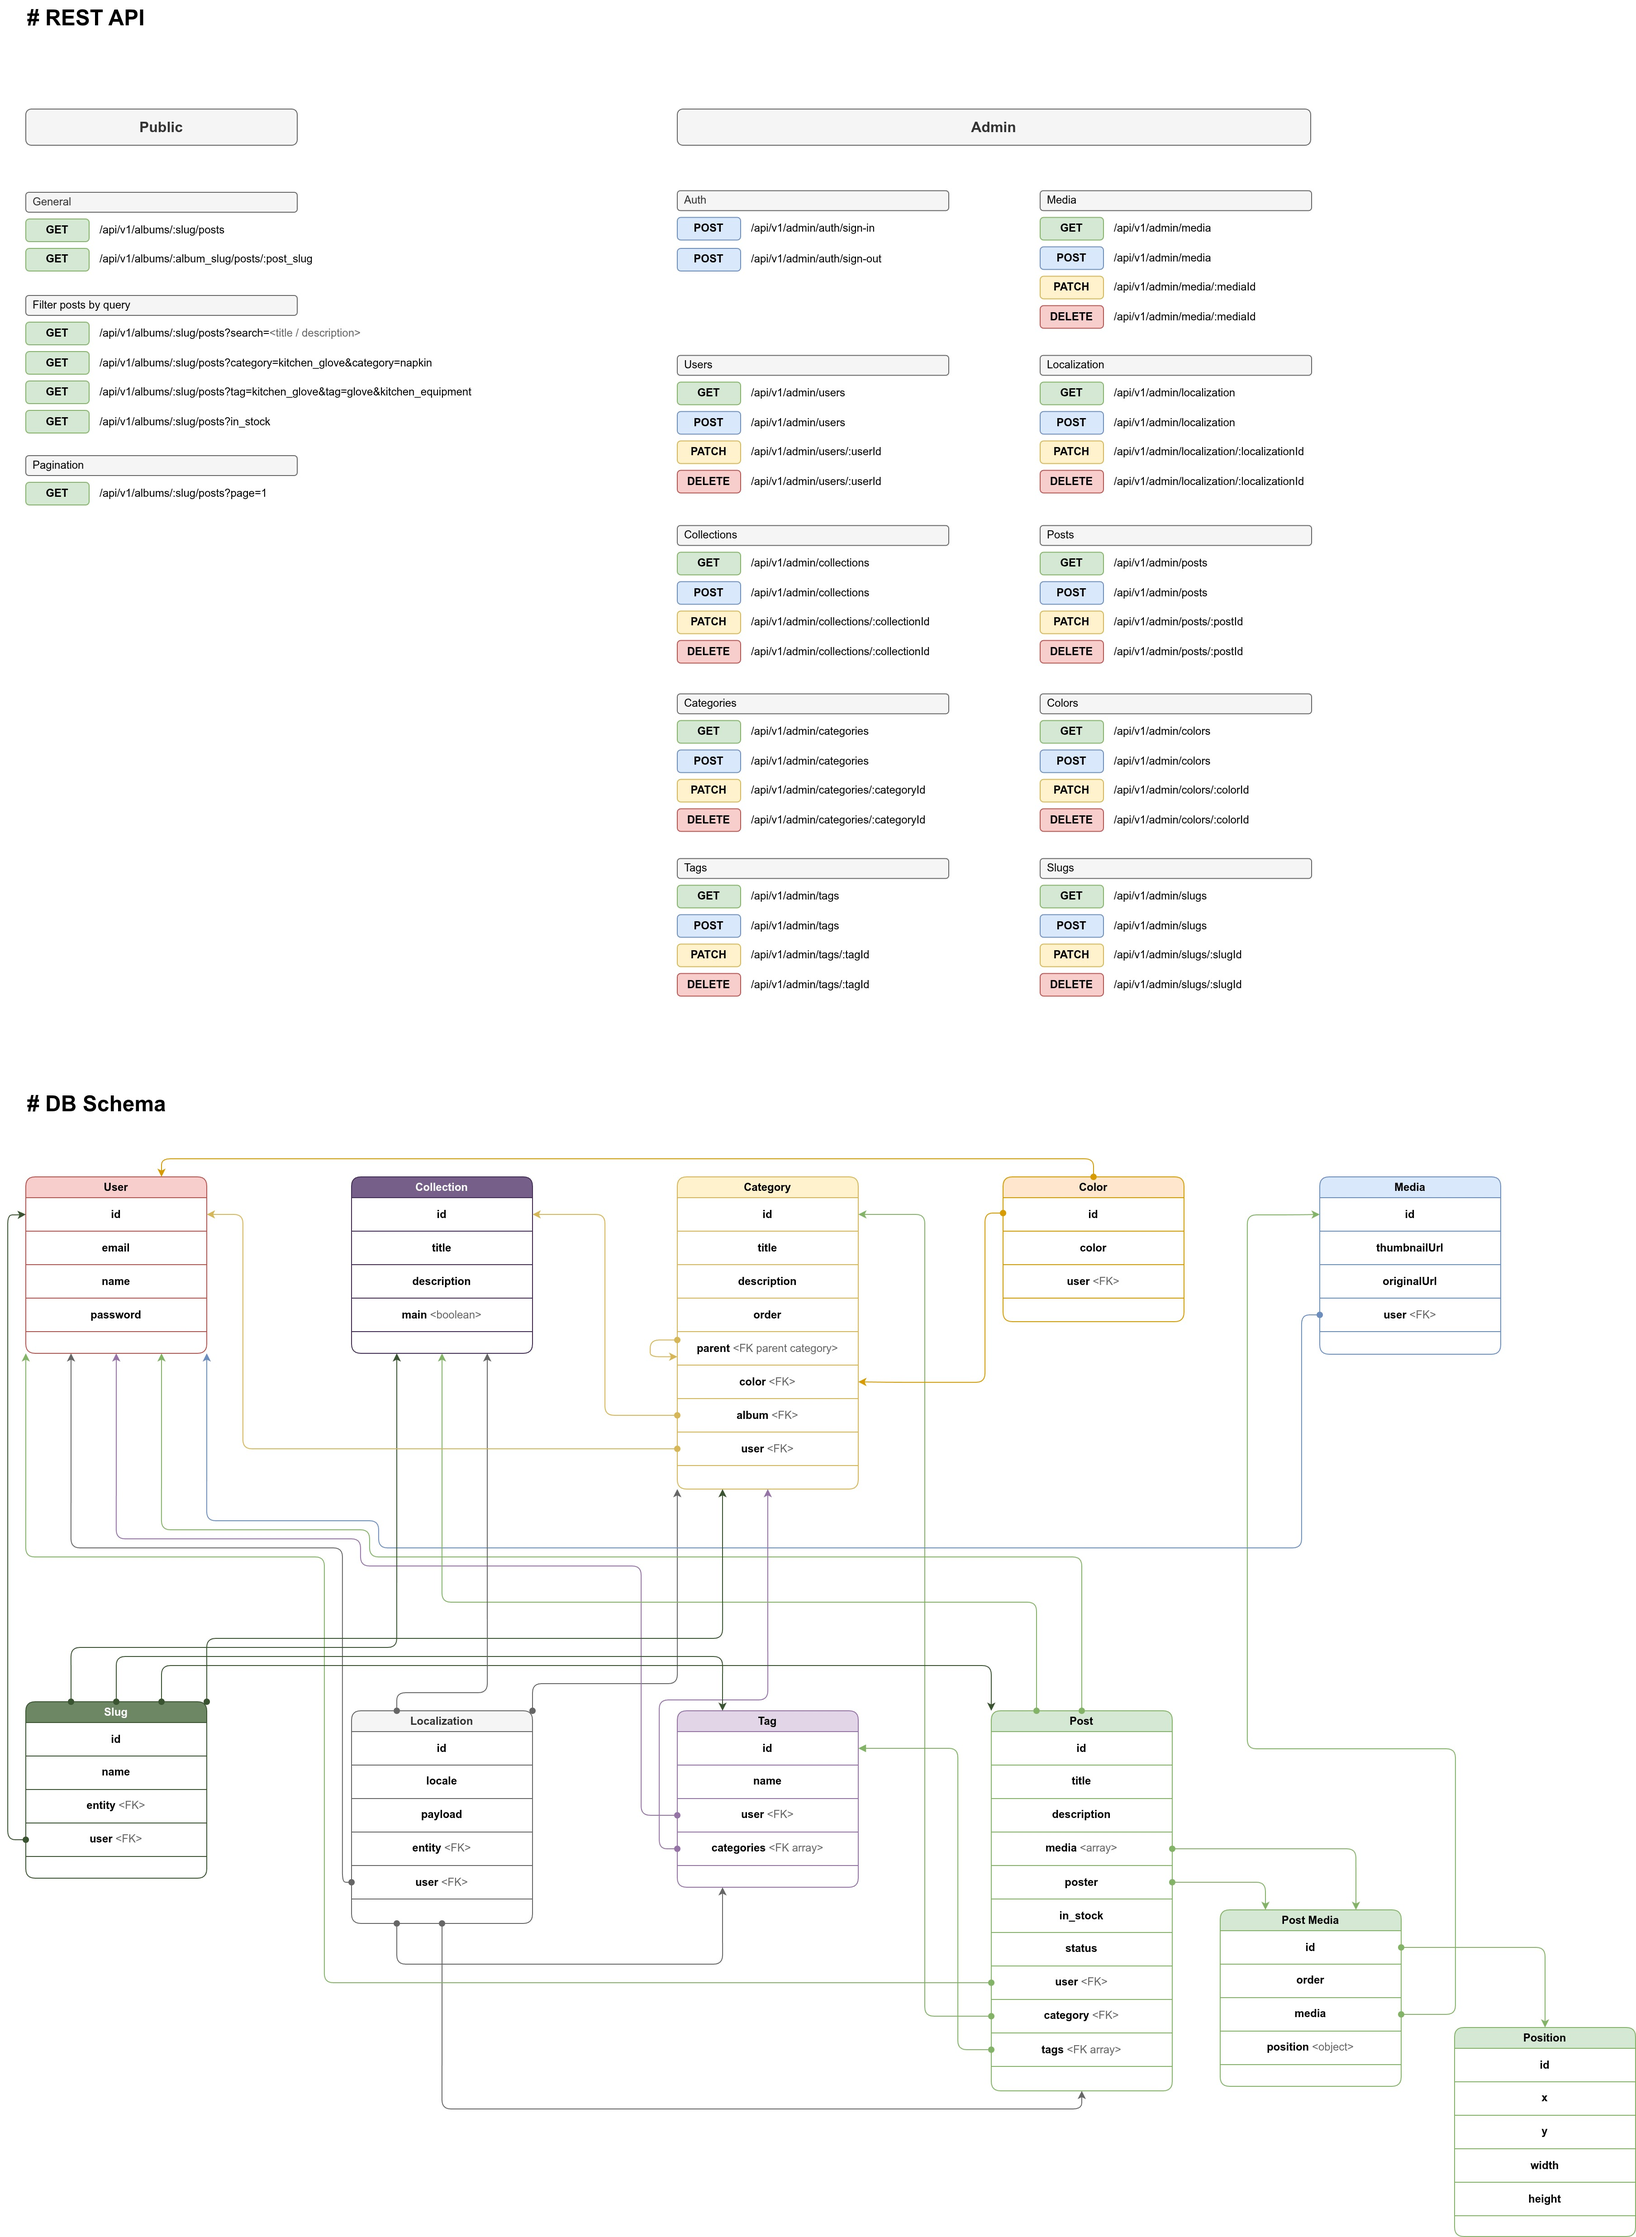
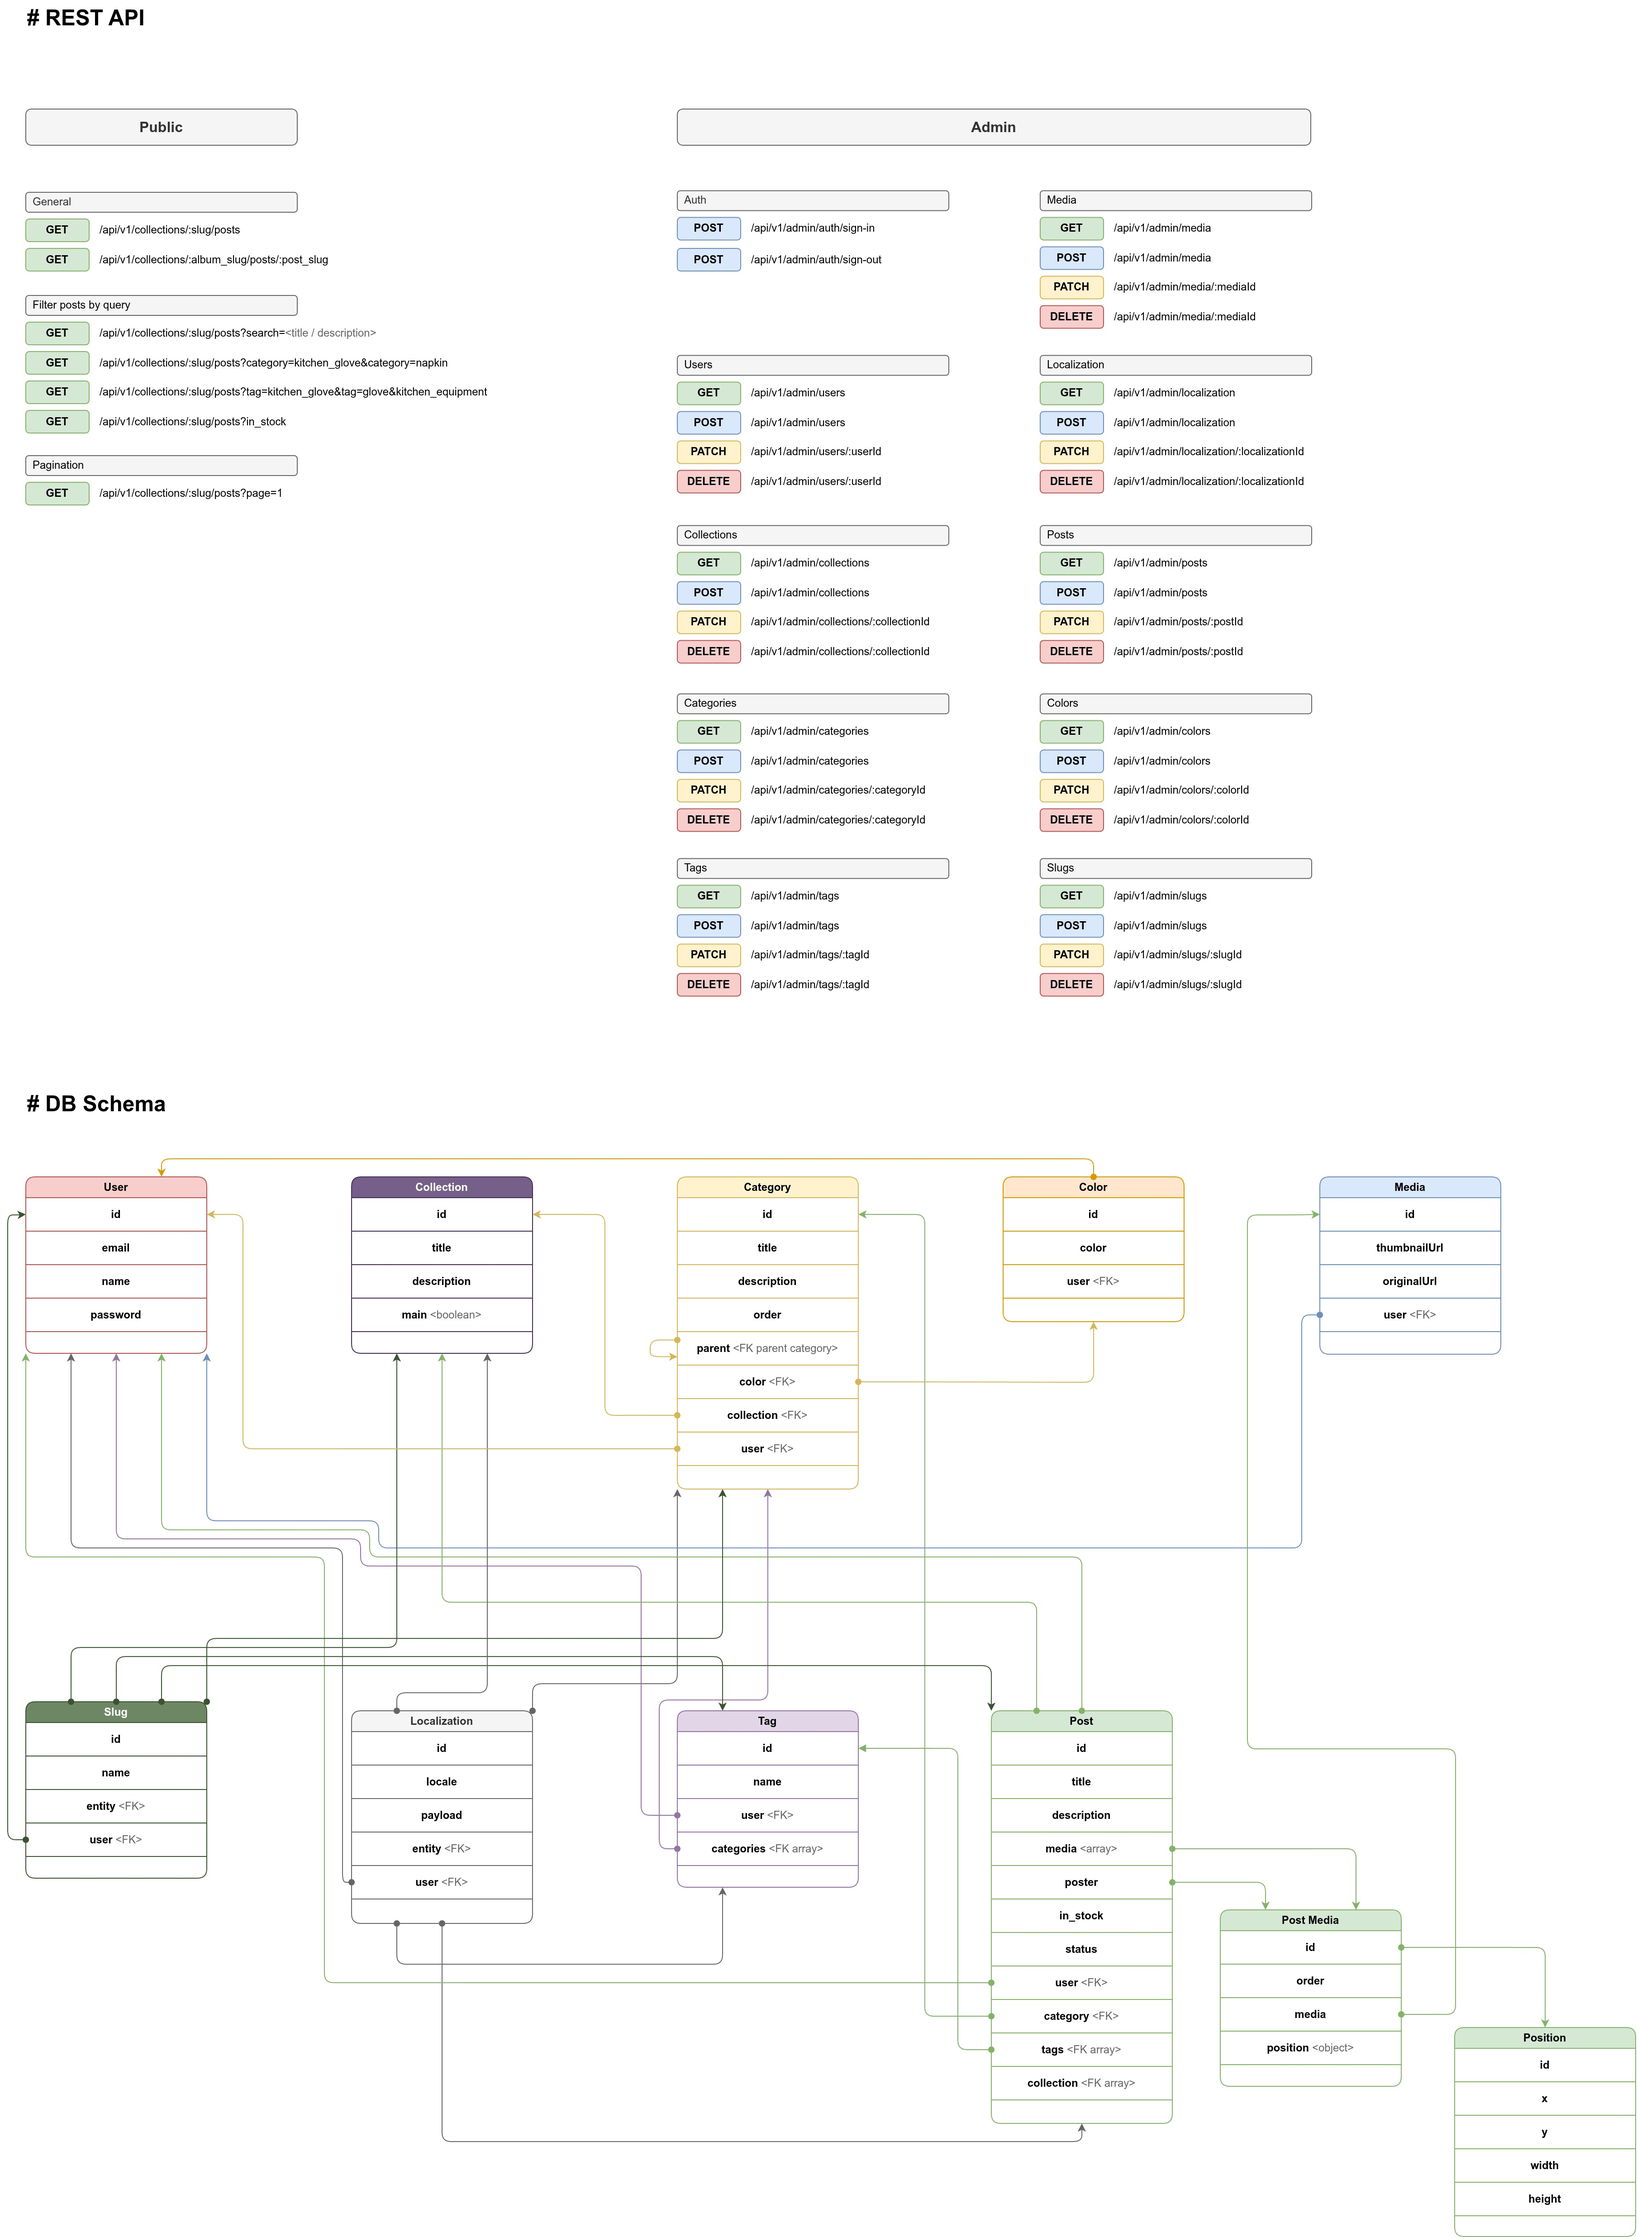
Update diagram and backend plan

diff --git a/.agents/project-plan/backend.md b/.agents/project-plan/backend.md
@@ -1,22 +1,47 @@
 # Backend Project Plan
 
-## Stack
+## Stack & Architecture
 - **Runtime**: Node.js
-- **Framework**: Express.js (or NestJS)
-- **Database**: NoSQL Document-based (e.g. MongoDB, DocumentDB) or PostgreSQL (Schema in diagram looks relational, but can be implemented in MongoDB).
-- **Auth**: Google OAuth 2.0 + JWT (Diagram shows standard Sign-in/Sign-out and User table).
-- **Image Processing**: Sharp (for conversion and resizing).
+- **Framework**: Express.js
+- **Database**: PostgreSQL (relational DB as shown in the diagram schema with foreign keys) or NoSQL Document-based (e.g. MongoDB, where relations are handled via referencing).
+- **ORM**: Prisma, TypeORM, or custom (to be decided based on DB selection).
+- **Image Processing**: Sharp (for conversion, resizing, and optimizations).
 - **API Versioning**: Prefix all routes with `/api/v1`.
+
+### Layered Structure
+- **Controllers**: Handle HTTP requests only. Extract parameters, validate input, and delegate to services. No business logic.
+- **Services**: All business logic, calculations, and domain rules are encapsulated here.
+- **Repositories**: Database access abstraction. Use interfaces to ensure the database engine can be swapped seamlessly (e.g., swapping PostgreSQL with MongoDB) without altering service logic.
+- **Storage Strategy**: **Adapter/Strategy Pattern** for file/media uploads. Define a generic storage interface so the backend can easily switch between Local Storage, AWS S3, or Cloudinary.
+
+### Routing & Naming
+- Use RESTful naming conventions.
+- Route paths must use `kebab-case`.
+- Prefix all routes with `/api/v1`.
+
+## Authentication & Security
+- **Strategy**: Google OAuth 2.0 + JWT.
+- **Token Management**:
+  - **Access Tokens**: Short-lived, passed in headers.
+  - **Refresh Tokens**: Long-lived, stored securely in **HttpOnly, Secure, SameSite=Strict cookies** to prevent XSS/CSRF.
+  - **Silent Refresh**: Endpoint `/api/v1/admin/auth/refresh` (or integrated mechanism) to renew access tokens automatically.
+- **Single-Admin Mode**:
+  - No public registration or sign-up endpoints.
+  - Access is restricted to a single hardcoded administrator Google email address.
+  - A dedicated `authMiddleware` verifies the JWT access token and ensures the user's email matches the allowed admin email.
+
+---
 
 ## Public API
 
 - **General**:
-    - `GET /api/v1/albums/:slug/posts`: Retrieve posts belonging to a specific album.
-    - `GET /api/v1/albums/:album_slug/posts/:post_slug`: Retrieve full project details.
+    - `GET /api/v1/collections/:slug/posts`: Retrieve posts belonging to a specific collection.
+    - `GET /api/v1/collections/:collection_slug/posts/:post_slug`: Retrieve full project details.
 - **Filter posts by query**:
+    - `?search=<title / description>`: Text search filter matching title or description of posts.
     - `?category=...&category=...`: Filter by multiple category slugs.
     - `?tag=...&tag=...`: Filter by multiple tag slugs.
-    - `?in_stock=true`: Filter by availability.
+    - `?in_stock`: Filter by availability.
 - **Pagination**:
     - `?page=1`: Standard pagination.
 
@@ -25,59 +50,95 @@
 - **Auth**:
     - `POST /api/v1/admin/auth/sign-in`
     - `POST /api/v1/admin/auth/sign-out`
+    - `POST /api/v1/admin/auth/refresh` (Token refresh)
 - **User Management**:
-    - `GET, POST, PATCH, DELETE /api/v1/admin/users`
-- **Album Management**:
-    - `GET, POST, PATCH, DELETE /api/v1/admin/albums`
+    - `GET /api/v1/admin/users`
+    - `POST /api/v1/admin/users`
+    - `PATCH /api/v1/admin/users/:userId`
+    - `DELETE /api/v1/admin/users/:userId`
+- **Collection Management**:
+    - `GET /api/v1/admin/collections`
+    - `POST /api/v1/admin/collections`
+    - `PATCH /api/v1/admin/collections/:collectionId`
+    - `DELETE /api/v1/admin/collections/:collectionId`
 - **Category Management**:
-    - `GET, POST, PATCH, DELETE /api/v1/admin/categories`
+    - `GET /api/v1/admin/categories`
+    - `POST /api/v1/admin/categories`
+    - `PATCH /api/v1/admin/categories/:categoryId`
+    - `DELETE /api/v1/admin/categories/:categoryId`
 - **Tag Management**:
-    - `GET, POST, PATCH, DELETE /api/v1/admin/tags`
+    - `GET /api/v1/admin/tags`
+    - `POST /api/v1/admin/tags`
+    - `PATCH /api/v1/admin/tags/:tagId`
+    - `DELETE /api/v1/admin/tags/:tagId`
 - **Media Management**:
-    - `GET, POST, PATCH, DELETE /api/v1/admin/media`
+    - `GET /api/v1/admin/media`
+    - `POST /api/v1/admin/media`
+    - `PATCH /api/v1/admin/media/:mediaId`
+    - `DELETE /api/v1/admin/media/:mediaId`
     - Convert all images to JPG.
     - Generate sizes: **Thumbnail** (300x300) and **Original** (1200x1200).
 - **Localization**:
-    - `GET, POST, PATCH, DELETE /api/v1/admin/localization`
+    - `GET /api/v1/admin/localization`
+    - `POST /api/v1/admin/localization`
+    - `PATCH /api/v1/admin/localization/:localizationId`
+    - `DELETE /api/v1/admin/localization/:localizationId`
 - **Post Editor**:
-    - `GET, POST, PATCH, DELETE /api/v1/admin/posts`
+    - `GET /api/v1/admin/posts`
+    - `POST /api/v1/admin/posts`
+    - `PATCH /api/v1/admin/posts/:postId`
+    - `DELETE /api/v1/admin/posts/:postId`
     - Status management (Draft vs. Published vs. Archived).
 - **Color Management**:
-    - `GET, POST, PATCH, DELETE /api/v1/admin/colors`
+    - `GET /api/v1/admin/colors`
+    - `POST /api/v1/admin/colors`
+    - `PATCH /api/v1/admin/colors/:colorId`
+    - `DELETE /api/v1/admin/colors/:colorId`
 - **Slug Management**:
-    - `GET, POST, PATCH, DELETE /api/v1/admin/slugs`
+    - `GET /api/v1/admin/slugs`
+    - `POST /api/v1/admin/slugs`
+    - `PATCH /api/v1/admin/slugs/:slugId`
+    - `DELETE /api/v1/admin/slugs/:slugId`
+
+---
 
 ## Data Models
 
 - **User**:
     - `id`, `email`, `name`, `password`.
-- **Album**:
-    - `id`, `title`, `description`.
+- **Collection**:
+    - `id`, `title`, `description`, `main` (Boolean).
 - **Category**:
-    - `id`, `title`, `description`, `color` (ref Color), `album` (ref Album), `user` (ref User).
+    - `id`, `title`, `description`, `order` (Number), `parent` (ref Category / self-referential FK), `color` (ref Color), `collection` (ref Collection), `user` (ref User).
 - **Color**:
     - `id`, `color` (hex/string), `user` (ref User).
 - **Media**:
     - `id`, `thumbnailUrl`, `originalUrl`, `user` (ref User).
 - **Slug**:
-    - `id`, `name`, `entity` (String/ID), `user` (ref User).
+    - `id`, `name`, `entity` (ref Collection, Category, Post), `user` (ref User).
 - **Localization**:
-    - `id`, `locale`, `payload` (JSON), `entity` (String/ID), `user` (ref User).
+    - `id`, `locale`, `payload` (JSON), `entity` (ref Collection, Category, Post, Tag), `user` (ref User).
 - **Tag**:
-    - `id`, `name`, `user` (ref User), `categories` (Array of IDs).
+    - `id`, `name`, `user` (ref User), `categories` (Array of Category IDs).
 - **Post**:
-    - `id`, `title`, `description`, `media` (Array of PostMedia), `poster` (ref Media), `in_stock` (Boolean), `status`, `user` (ref User), `category` (ref Category), `tags` (Array of IDs).
+    - `id`, `title`, `description`, `media` (Array of PostMedia), `poster` (ref Media), `in_stock` (Boolean), `status` (String - Draft/Published/Archived), `collection` (Array of Collection IDs), `user` (ref User), `category` (ref Category), `tags` (Array of Tag IDs).
 - **PostMedia**:
-    - `id`, `order`, `media` (ref Media), `position` (ref Position).
+    - `id`, `order`, `media` (ref Media), `position` (ref Position or nested position object).
 - **Position**:
     - `id`, `x`, `y`, `width`, `height`.
+
+> [!NOTE]
+> **Relational Consistency**:
+> A `Post` has a direct link to one or more `Collection` entities via `collection (Array of Collection IDs)`. This allows direct, high-performance querying of all posts belonging to a collection without having to perform deep relational JOINs through categories.
 
 ---
 
 **Important (Consistency when deleting):**
 If an admin deletes a Tag or Category, run a background task to remove that ID from all associated posts. NoSQL lacks built-in ON DELETE CASCADE.
 
-### REST API Response contract:
+## Error Handling & Response Contracts
+
+### REST API Response Contracts
 
 **List response**
 ```json
@@ -91,22 +152,45 @@ If an admin deletes a Tag or Category, run a background task to remove that ID f
   }
 }
 ```
+
 **Item response**
 ```json
 {
   "data": {}
 }
 ```
+
 **Error response**
 ```json
 {
+  "data": {},
   "error": {
-    "message": "",
-    "code": "",
+    "code": "ERROR_CODE",
+    "message": "Error description message",
     "details": [{
-      "field": "",
-      "message": ""
+      "field": "optional_field_name",
+      "message": "specific validation message"
     }]
   }
 }
 ```
+
+---
+
+### Error Handling Architecture
+
+To ensure consistent and predictable API responses, the backend must implement a centralized operational error handling pattern:
+
+1. **Custom Base Error Class**:
+   - Establish an abstract custom error class (e.g., `BaseError`) extending the native `Error` class.
+   - It must encapsulate a unique string-based `errorCode` (e.g., `INVALID_CREDENTIALS`) and an HTTP `statusCode` (e.g., `401`).
+   - It must declare a `serialize()` method which formats the error object to match the API response contract.
+
+2. **Concrete Operational Errors**:
+   - All custom operational errors (e.g., `NotFoundError`, `InvalidCredentialsError`, `ValidationError`) must extend the base error class, automatically setting the appropriate HTTP status code and unique error code.
+
+3. **Centralized Error Middleware**:
+   - A single, global Express error-handling middleware must intercept all controller and service exceptions.
+   - **Logging**: Every captured exception must be logged securely with the system logger, passing the message and error details.
+   - **Operational Errors**: If the intercepted error is an instance of the custom base error class, the middleware must return its HTTP status code and serialized payload.
+   - **Generic Failures**: For unhandled, generic system errors, the middleware must hide internal server details, return a `500 Internal Server Error` status, and send a standard fallback contract with a generic code (e.g., `COMMON_ERROR`).
